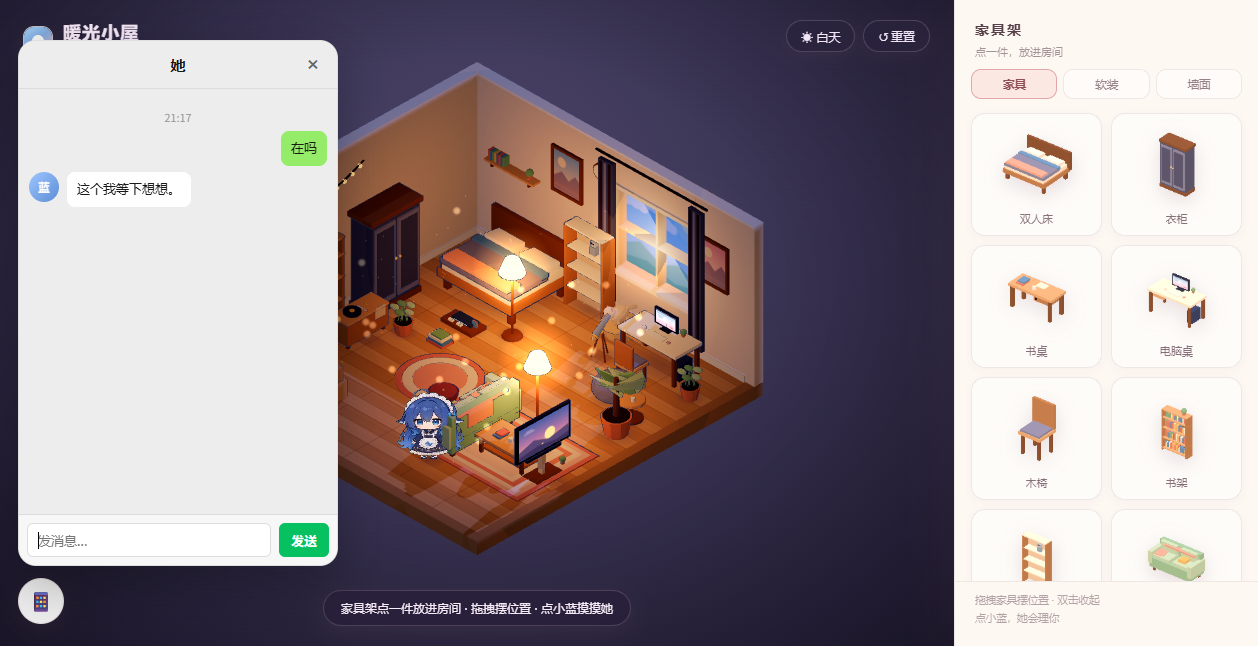
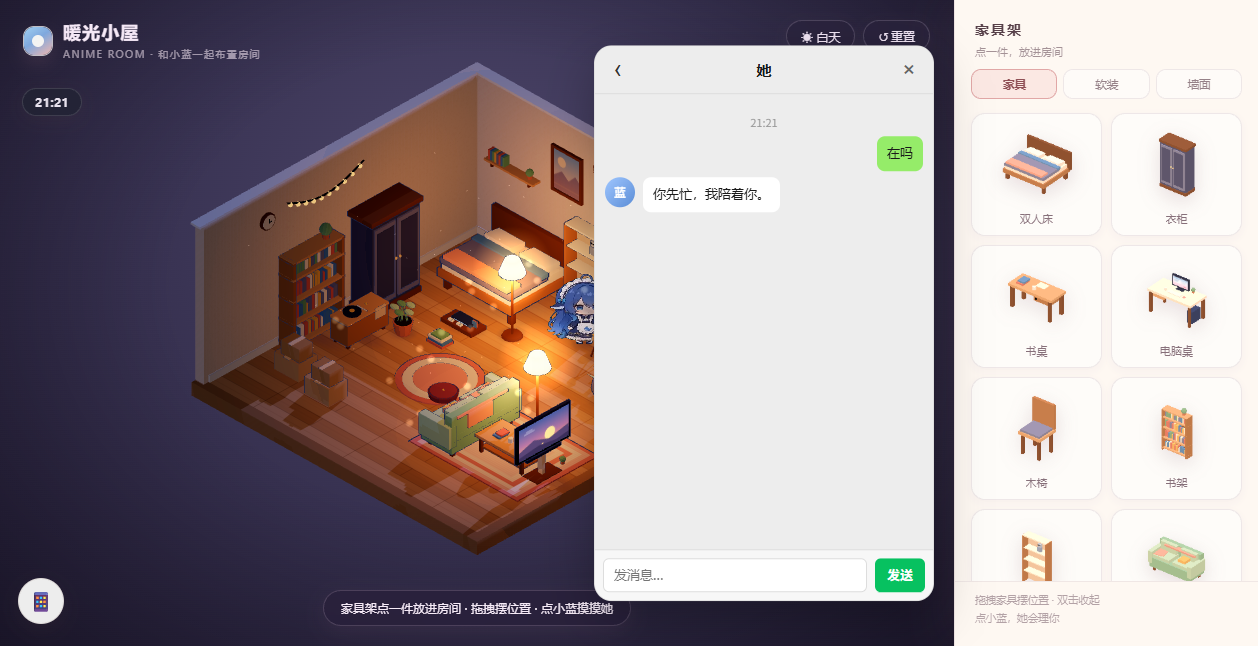
feat: 手机首页（应用界面）+ 移到右侧；记录未来需求

diff --git a/anime-room/js/phone.js b/anime-room/js/phone.js
@@ -1,5 +1,5 @@
-/* Purple room — WeChat-style phone for her messages.
-   Data comes from PR.store (js/game-state.js). A tiny fallback store keeps the
+/* Purple room — WeChat-style phone: home screen + chat app.
+   Data comes from PR.store (js/game-state.js); a small fallback store keeps the
    UI usable until that file exists. */
 window.PR = window.PR || {};
 
@@ -7,7 +7,8 @@ PR.phone = (function () {
   var KEY = 'cozy-room-game';
   var open = false;
   var built = false;
-  var btn, card, listEl, inputEl, badgeEl, sendBtn;
+  var view = 'home'; // 'home' | 'chat'
+  var btn, card, homeEl, chatEl, listEl, inputEl, badgeEl, appBadge, backBtn, titleEl, clockEl, clockTimer;
 
   var REPLIES = [
     '嗯嗯，我在。',
@@ -84,7 +85,7 @@ PR.phone = (function () {
     btn = document.createElement('button');
     btn.id = 'phone-btn';
     btn.className = 'phone-btn';
-    btn.title = '她的消息';
+    btn.title = '她的手机';
     btn.innerHTML = '📱<span class="phone-badge" id="phone-badge"></span>';
     btn.addEventListener('click', function () { toggle(); });
     document.body.appendChild(btn);
@@ -94,26 +95,59 @@ PR.phone = (function () {
     card.id = 'phone-card';
     card.className = 'phone-card hidden';
     card.innerHTML =
-      '<div class="phone-head"><span class="phone-title">她</span>' +
-      '<button class="phone-close" aria-label="关闭">×</button></div>' +
+      '<div class="phone-head">' +
+      '<button class="phone-back hidden" aria-label="返回">‹</button>' +
+      '<span class="phone-title" id="phone-title">她</span>' +
+      '<button class="phone-close" aria-label="关闭">×</button>' +
+      '</div>' +
+      '<div class="phone-home" id="phone-home">' +
+      '<div class="phone-home-clock" id="phone-home-clock">--:--</div>' +
+      '<div class="phone-apps">' +
+      '<button class="phone-app" data-app="chat">' +
+      '<span class="app-icon">💬</span><span class="app-name">聊天</span>' +
+      '<b class="app-badge" id="phone-app-badge"></b></button>' +
+      '<button class="phone-app disabled"><span class="app-icon">🖼</span><span class="app-name">相册</span></button>' +
+      '<button class="phone-app disabled"><span class="app-icon">🌱</span><span class="app-name">菜地</span></button>' +
+      '<button class="phone-app disabled"><span class="app-icon">✈</span><span class="app-name">旅行</span></button>' +
+      '</div>' +
+      '<div class="phone-home-hint">更多 App 还在路上</div>' +
+      '</div>' +
+      '<div class="phone-chat hidden" id="phone-chat">' +
       '<div class="phone-list" id="phone-list"></div>' +
       '<div class="phone-foot">' +
       '<input id="phone-input" type="text" placeholder="发消息…" maxlength="120">' +
       '<button id="phone-send" class="phone-send">发送</button>' +
+      '</div>' +
       '</div>';
     document.body.appendChild(card);
 
+    homeEl = card.querySelector('#phone-home');
+    chatEl = card.querySelector('#phone-chat');
     listEl = card.querySelector('#phone-list');
     inputEl = card.querySelector('#phone-input');
-    sendBtn = card.querySelector('#phone-send');
+    titleEl = card.querySelector('#phone-title');
+    backBtn = card.querySelector('.phone-back');
+    clockEl = card.querySelector('#phone-home-clock');
+    appBadge = card.querySelector('#phone-app-badge');
+
     card.querySelector('.phone-close').addEventListener('click', function () { close(); });
-    sendBtn.addEventListener('click', function () { send(); });
+    backBtn.addEventListener('click', function () { showHome(); });
+    card.querySelector('[data-app="chat"]').addEventListener('click', function () { showChat(); });
+    card.querySelector('#phone-send').addEventListener('click', function () { send(); });
     inputEl.addEventListener('keydown', function (e) {
       if (e.key === 'Enter') { e.preventDefault(); send(); }
     });
 
+    clockTimer = setInterval(updateClock, 30 * 1000);
+    updateClock();
     store().subscribe(function () { render(); });
     render();
+  }
+
+  function updateClock() {
+    if (!clockEl) return;
+    var d = new Date();
+    clockEl.textContent = ('0' + d.getHours()).slice(-2) + ':' + ('0' + d.getMinutes()).slice(-2);
   }
 
   function render() {
@@ -158,11 +192,33 @@ PR.phone = (function () {
       listEl.appendChild(row);
     });
     listEl.scrollTop = listEl.scrollHeight;
-    if (badgeEl) {
-      var n = st.unread || 0;
-      badgeEl.textContent = n ? (n > 99 ? '99+' : String(n)) : '';
-      badgeEl.classList.toggle('on', n > 0);
-    }
+    var n = st.unread || 0;
+    var label = n ? (n > 99 ? '99+' : String(n)) : '';
+    [badgeEl, appBadge].forEach(function (el) {
+      if (!el) return;
+      el.textContent = label;
+      el.classList.toggle('on', n > 0);
+    });
+  }
+
+  function showHome() {
+    view = 'home';
+    homeEl.classList.remove('hidden');
+    chatEl.classList.add('hidden');
+    backBtn.classList.add('hidden');
+    titleEl.textContent = '她';
+    updateClock();
+  }
+
+  function showChat() {
+    view = 'chat';
+    homeEl.classList.add('hidden');
+    chatEl.classList.remove('hidden');
+    backBtn.classList.remove('hidden');
+    titleEl.textContent = '她';
+    store().markRead();
+    render();
+    setTimeout(function () { if (inputEl) inputEl.focus(); }, 120);
   }
 
   function toggle() { if (open) close(); else openPhone(); }
@@ -172,10 +228,9 @@ PR.phone = (function () {
     open = true;
     card.classList.remove('hidden');
     btn.classList.add('open');
-    store().markRead();
+    showHome();
     render();
     if (PR.bus) PR.bus.emit('phone:open', {});
-    setTimeout(function () { if (inputEl) inputEl.focus(); }, 120);
   }
 
   function close() {
@@ -214,6 +269,9 @@ PR.phone = (function () {
     close: close,
     toggle: toggle,
     message: message,
+    showHome: showHome,
+    showChat: showChat,
     get isOpen() { return open; },
+    get view() { return view; },
   };
 })();

diff --git a/anime-room/styles.css b/anime-room/styles.css
@@ -596,3 +596,97 @@ body.night .bubble { background: rgba(38, 40, 56, .95); color: #f0eaf2; border-c
   font: 600 13px "PingFang SC", sans-serif;
   cursor: pointer;
 }
+
+/* ---- phone: right side + home screen ---- */
+.phone-card {
+  left: auto;
+  right: 24px;
+  top: 50%;
+  bottom: auto;
+  transform: translateY(-50%);
+  width: 340px;
+  height: min(620px, 86vh);
+}
+.phone-home {
+  flex: 1;
+  min-height: 0;
+  padding: 18px 16px;
+  background: linear-gradient(160deg, #dfe9f7, #f4f0ea 62%);
+  display: flex;
+  flex-direction: column;
+}
+.phone-home.hidden, .phone-chat.hidden { display: none; }
+.phone-home-clock {
+  text-align: center;
+  font: 600 30px "PingFang SC", "Microsoft YaHei", sans-serif;
+  color: #2c3440;
+  letter-spacing: .04em;
+  margin: 4px 0 22px;
+}
+.phone-apps {
+  display: grid;
+  grid-template-columns: repeat(3, 1fr);
+  gap: 18px 8px;
+}
+.phone-app {
+  position: relative;
+  display: flex;
+  flex-direction: column;
+  align-items: center;
+  gap: 7px;
+  border: 0;
+  background: transparent;
+  cursor: pointer;
+  padding: 0;
+}
+.phone-app .app-icon {
+  width: 54px;
+  height: 54px;
+  border-radius: 14px;
+  background: #fff;
+  display: grid;
+  place-items: center;
+  font-size: 26px;
+  box-shadow: 0 3px 8px rgba(40, 50, 70, .12);
+}
+.phone-app .app-name { font: 11px "PingFang SC", sans-serif; color: #3a4250; }
+.phone-app.disabled { opacity: .38; cursor: default; }
+.app-badge {
+  position: absolute;
+  top: -5px;
+  right: 6px;
+  min-width: 18px;
+  height: 18px;
+  border-radius: 9px;
+  background: #fa5151;
+  color: #fff;
+  font: 11px/18px "PingFang SC", sans-serif;
+  text-align: center;
+  padding: 0 5px;
+  display: none;
+}
+.app-badge.on { display: block; }
+.phone-home-hint {
+  margin-top: auto;
+  text-align: center;
+  color: #8a93a3;
+  font: 11px "PingFang SC", sans-serif;
+}
+.phone-chat { flex: 1; min-height: 0; display: flex; flex-direction: column; }
+.phone-back {
+  position: absolute;
+  left: 6px;
+  top: 6px;
+  width: 34px;
+  height: 34px;
+  border: 0;
+  background: transparent;
+  color: #333;
+  font-size: 24px;
+  line-height: 30px;
+  cursor: pointer;
+}
+.phone-back.hidden { display: none; }
+
+/* keep the phone clear of the furniture panel when it is visible */
+body:not(.embed) .phone-card { right: 324px; }
